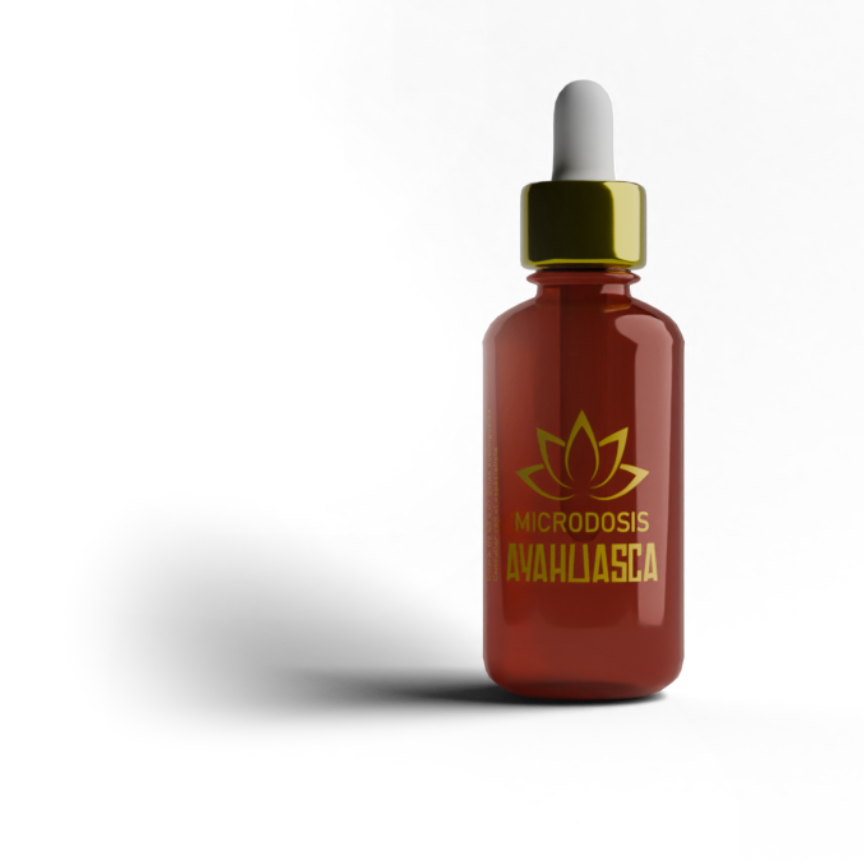
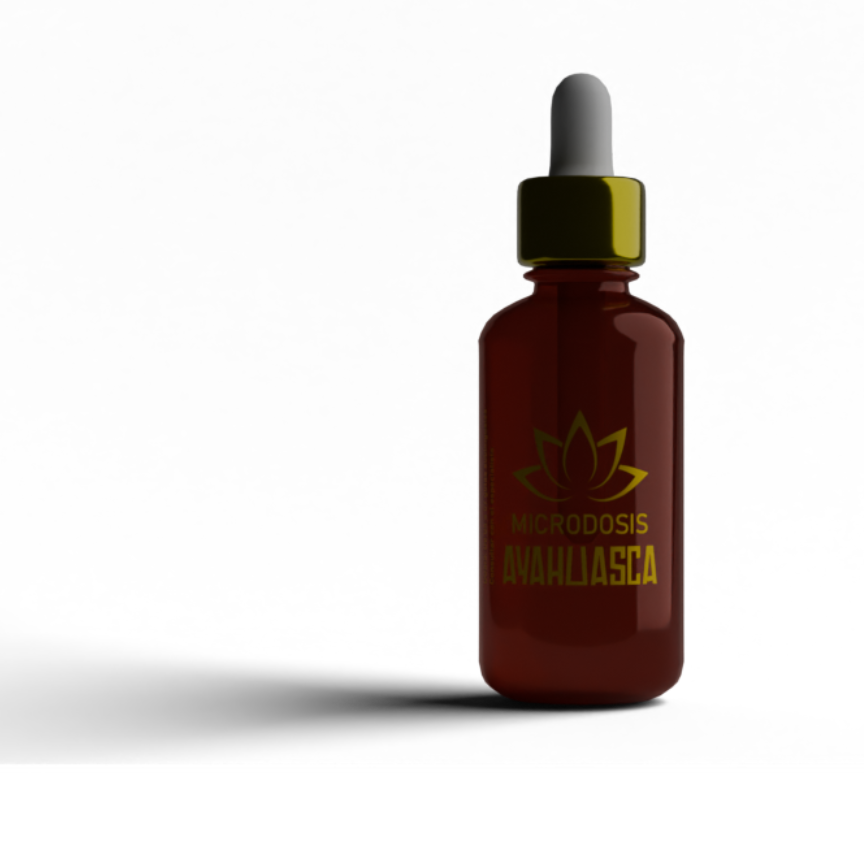
responsive and mobile hotfixes

Changed region(s): [[0.0, 0.0625, 0.8125, 0.875]]

diff --git a/src/components/ReactPages/Landing.tsx b/src/components/ReactPages/Landing.tsx
@@ -136,14 +136,9 @@ const Landing = React.forwardRef<HTMLDivElement, LandingProps>((props, ref) => {
             src={staticImage}
             style={{
               position: "relative",
-              right: mobile ? "-50%" : "14rem",
-              top: mobile ? "5rem" : "10rem",
               width: "100%",
               height: "100%",
               objectFit: "contain",
-              transform: mobile
-                ? "scale(10) translate(-25%, 0%)"
-                : "scale(3) rotate(0.2deg)",
             }}
           />
         )}
@@ -242,7 +237,10 @@ const Landing = React.forwardRef<HTMLDivElement, LandingProps>((props, ref) => {
             animation: fadeInSlideFromLeft 1s ease-out forwards;
           }
 
-          .fadeInIMage{
+        .fadeInIMage{
+          right: ${mobile ? "-50%" : "14rem"};
+          top: ${mobile ? "5rem" : "10rem"};
+          transform: ${mobile ? "scale(10) translate(-25%, 0%)" : "scale(3) rotate(0.2deg)"};
           animation: fadeInSlideFromLeftImage 1.5s ease-in forwards;
           }
 
@@ -267,8 +265,10 @@ const Landing = React.forwardRef<HTMLDivElement, LandingProps>((props, ref) => {
           }
 
           .image-container {
-            ${mobile && "transform: scale(1.25);"}
-            ${mobile && "filter: blur(5px);"}
+            ${mobile && "transform: scale(3);"}
+            ${mobile && "right: 2rem !important;"}
+            ${mobile && "bottom: 8rem !important;"}
+            ${mobile && "filter: blur(4px);"}
             position:relative;
             border: 1px solid transparent;
             flex: 1;
@@ -280,9 +280,9 @@ const Landing = React.forwardRef<HTMLDivElement, LandingProps>((props, ref) => {
 
           canvas {
             position: absolute !important;
-            bottom: ${responsiveHandler("", "1rem", "4rem", "10rem", "0rem")};
-            right: ${responsiveHandler("", "2rem", "9rem", "20rem", "0rem")};
-            transform: scale(${mobile ? 10 : responsiveHandler(2.4, 2.5, 3, 4, 10)}) !important;
+            bottom: ${responsiveHandler("", "-2rem", "-2rem", "2rem", "0rem")};
+            right: ${responsiveHandler("", "-2rem", "7rem", "20rem", "0rem")};
+            transform: scale(${mobile ? 7 : responsiveHandler(2.4, 3, 3, 2.7, 7)}) !important;
             max-height: 90vh;
             max-width: 99vw;
             z-index: 2 !important;

diff --git a/public/animation.js b/public/animation.js
@@ -29,7 +29,7 @@ function preloadFrames() {
 }
 
 //delay
-let frameDelay = 1;
+let frameDelay = 5;
 let frameDelayCounter = 0;
 
 function drawFrame() {
